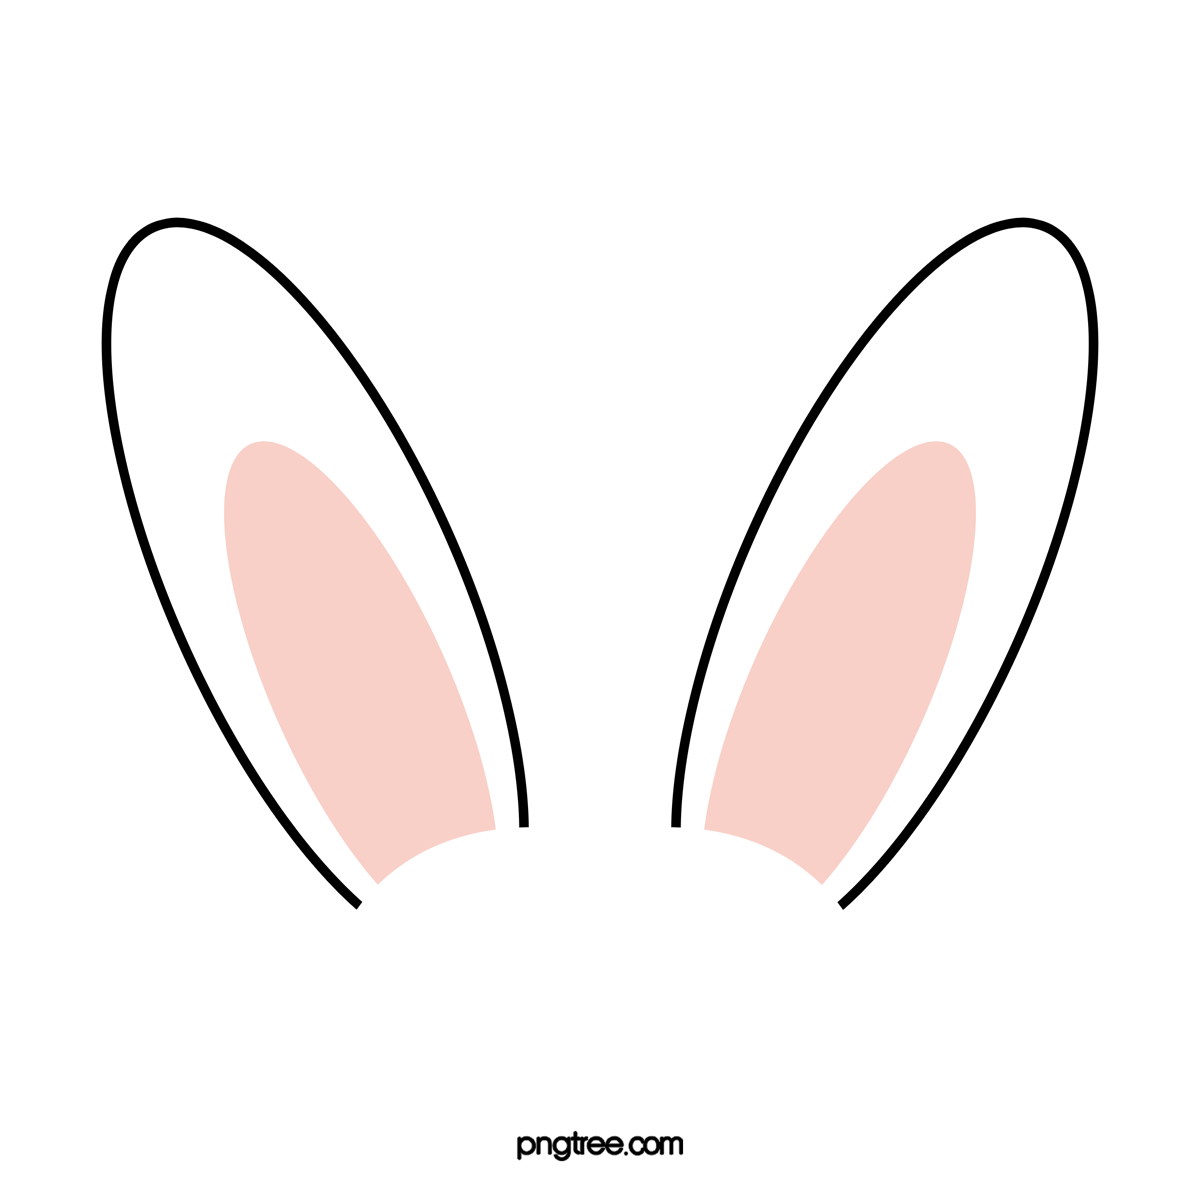
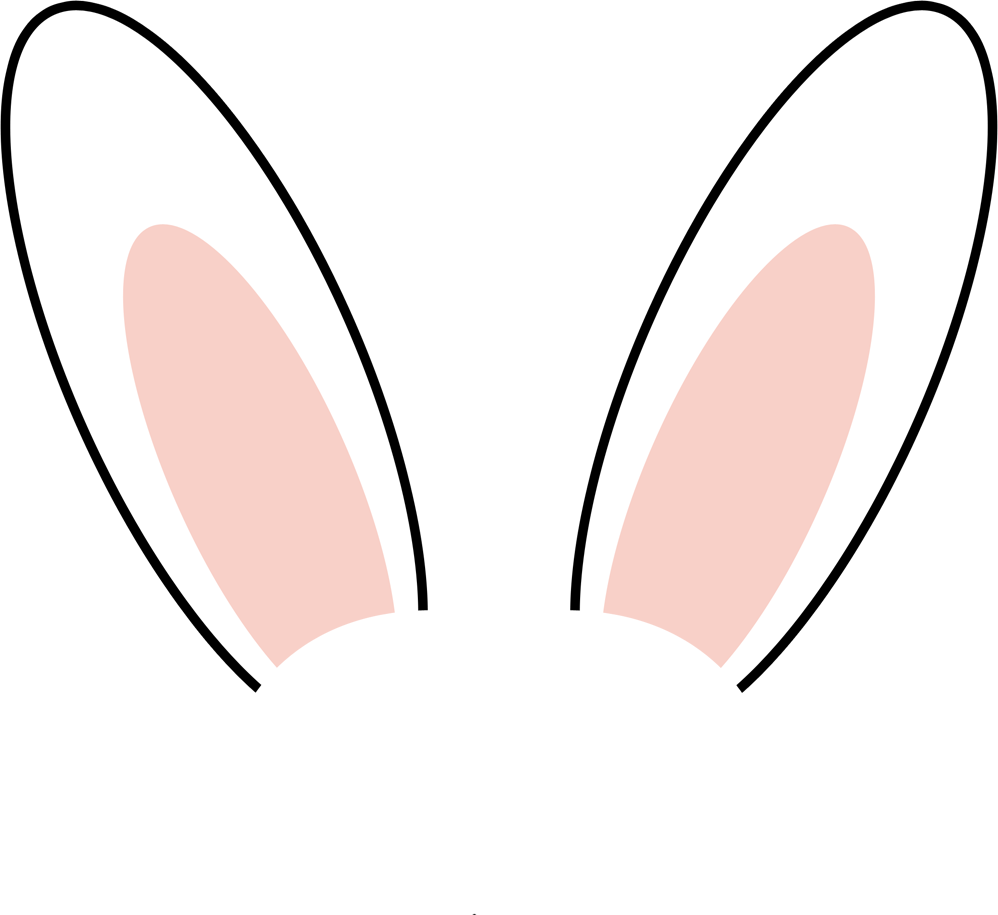
update add_noses_stickers

diff --git a/gradio_app.py b/gradio_app.py
@@ -312,20 +312,38 @@ def add_noses_sticker(img_bgr, sticker_path, faces):
         nose_area = [landmarks.part(i) for i in range(27, 36)]
 
         # Calculate the bounding box for the nose based on the nose landmarks
-        nose_width = int(abs(nose_area[0].x - nose_area[-1].x) * 1.8)
+        nose_width = int(abs(nose_area[0].x - nose_area[-1].x) * 2.1)
         nose_height = int(nose_width * nose_bgra.height / nose_bgra.width)
+
+        # the landmarks 31 and 35 are the leftmost and rightmost points of the nose area
+        nose_left = landmarks.part(31)
+        nose_right = landmarks.part(35)
+
+        # Calculate the center point of the nose
+        nose_center_x = (nose_left.x + nose_right.x) // 2
+
+        nose_top = landmarks.part(27)  # Use 28 if it's more accurate for your model
+        nose_bottom = landmarks.part(33)
+
+        # Calculate the midpoint of the vertical length of the nose
+        nose_center_y = (nose_top.y + nose_bottom.y) // 2
+
+        # Calculate the angle of tilt using the eyes as reference
+        left_eye_indices = range(36, 42)
+        right_eye_indices = range(42, 48)
+        angle = calculate_eye_angle(landmarks, left_eye_indices, right_eye_indices)
 
         # Resize the nose image
         resized_nose_pil = nose_bgra.resize((nose_width, nose_height))
-        
-        # Calculate the position for the nose
-        y1 = min([point.y for point in nose_area]) + int(0.3 * nose_height)
-        y2 = y1 + nose_height
-        x1 = min([point.x for point in nose_area]) - int(0.1 * nose_width)
-        x2 = x1 + nose_width
 
+        rotated_nose = resized_nose_pil.rotate(-angle, expand=True, resample=Image.BICUBIC)
+
+
+        # the position for the nose
+        x1 = nose_center_x - (nose_width // 2)
+        y1 = nose_center_y - (nose_height // 2)+ int(0.1 * nose_height)  # Adding a slight downward offset
         # Convert PIL image to NumPy array
-        nose_np = np.array(resized_nose_pil)
+        nose_np = np.array(rotated_nose)
         
         # Overlay the nose on the image
         img_with_stickers = overlay_transparent(img_with_stickers, nose_np, x1, y1)

diff --git a/resize.py b/resize.py
@@ -1,0 +1,36 @@
+# from PIL import Image
+# # Load the image of the cat headband
+# img_path_cat_headband = './stickers/ears/white-bunny-ears.png'
+# img_cat_headband = Image.open(img_path_cat_headband)
+
+# # Crop the image to remove transparent spaces
+# bbox_cat_headband = img_cat_headband.getbbox()
+
+# # Cropping the image to the bounding box
+# cropped_img_cat_headband = img_cat_headband.crop(bbox_cat_headband)
+
+# cropped_img_cat_headband_path = './cropped_cat-headband.png'
+# cropped_img_cat_headband.save(cropped_img_cat_headband_path)
+# cropped_img_cat_headband_path
+
+from PIL import Image
+
+img_path_cat_headband = './stickers/ears/white-bunny-ears.png'
+img_cat_headband = Image.open(img_path_cat_headband)
+
+# Get the bounding box to remove transparent spaces
+bbox_cat_headband = img_cat_headband.getbbox()
+
+if bbox_cat_headband:  # Checking if bounding box is not None
+    left, upper, right, lower = bbox_cat_headband
+    new_lower = lower - 30  # Reducing the lower boundary by 10 pixels
+    new_bbox_cat_headband = (left, upper, right, new_lower)
+
+    # Cropping the image to the new bounding box
+    cropped_img_cat_headband = img_cat_headband.crop(new_bbox_cat_headband)
+
+    # Save the cropped image
+    cropped_img_cat_headband_path = './cropped_cat-headband.png'
+    cropped_img_cat_headband.save(cropped_img_cat_headband_path)
+
+
